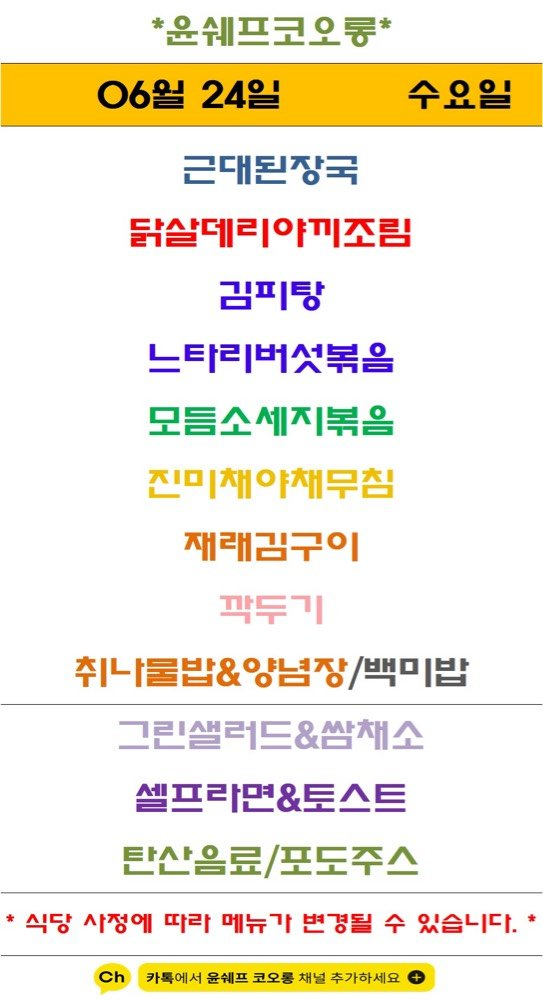
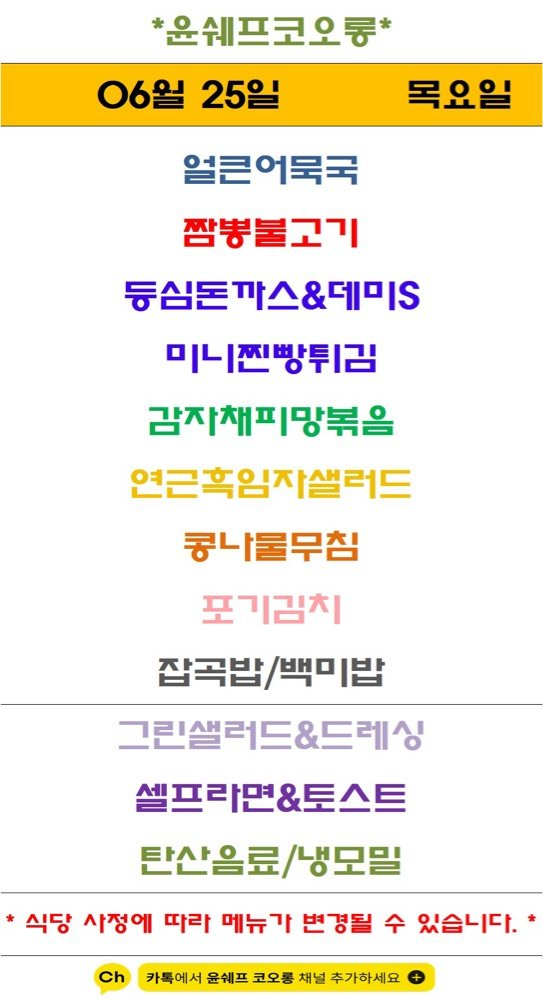
Update menu board assets

diff --git a/guro-menu/index.html b/guro-menu/index.html
@@ -32,7 +32,7 @@
   </header>
   <section class="meta">
     <div><small>기준 날짜</small><strong>2026년 6월 25일 목요일</strong></div>
-    <div><small>최종 갱신</small><strong>2026-06-25 09:13:25</strong></div>
+    <div><small>최종 갱신</small><strong>2026-06-25 09:18:11</strong></div>
     <div><small>등록 식당</small><strong>5개</strong></div>
   </section>
   <div class="notice">공개 카카오 채널의 메뉴 이미지를 자동 수집하고 OCR로 정리합니다. 텍스트에 오타가 있을 수 있으니 식단 이미지를 함께 확인해 주세요.</div>
@@ -103,8 +103,8 @@
           <a class="channel" href="https://pf.kakao.com/_Xxhxkhs" target="_blank" rel="noopener">원본 채널</a>
         </div>
         <img class="menu-image" src="./images/yoon-chef-kolon.png" alt="윤쉐프 코오롱 식단 이미지" loading="lazy">
-        <p class="message">최신 공개 식단 이미지의 텍스트입니다. 날짜는 원본 이미지를 확인해 주세요.</p>
-        <ul><li>근대된장국</li><li>닭살데리야끼조림</li><li>리피탕</li><li>느타리버섯복음</li><li>모듬소세지볶음</li><li>재래리구이</li><li>취나물밥&amp;양념장/백미밥</li><li>그린샐러드&amp;쌈채소</li><li>셀프라면&amp;토스트</li><li>탄산음료/포도주스</li></ul>
+        
+        <ul><li>열큰어묵국</li><li>등심돈까쓰&amp;데미6</li><li>람자채피망볶음</li><li>콩나물무침</li><li>잡곡밥/벽미밥</li><li>그린샐러드&amp;드레싱</li><li>셀프라면&amp;토스트</li><li>탄산음료/냉모밀</li></ul>
       </article>
   </section>
   <section class="seo" aria-label="검색 정보">한신IT타워 구내식당 자연푸드 구내식당 더이츠푸드 벽산더이룸 윤쉐프 코오롱 한신IT타워 벽산디지털밸리7차 대륭포스트타워1차 벽산디지털밸리1차 코오롱싸이언스밸리1차 서울 구로구 디지털로 272 한신IT타워 지하1층 서울 구로구 디지털로33길 50 벽산디지털밸리7차 지하1층 서울 구로구 디지털로 288 대륭포스트타워1차 지하1층 서울 구로구 디지털로27길 24 벽산디지털밸리1차 지하1층 서울 구로구 디지털로34길 43 코오롱싸이언스밸리1차 지하1층</section>

diff --git a/menu-today/index.html b/menu-today/index.html
@@ -209,7 +209,7 @@
 
     <section class="meta-bar">
       <div class="meta-card"><div class="meta-label">기준 날짜</div><div class="meta-value">2026년 6월 25일 목요일</div></div>
-      <div class="meta-card"><div class="meta-label">최종 가져온 시간</div><div class="meta-value">2026-06-25 09:13:09</div></div>
+      <div class="meta-card"><div class="meta-label">최종 가져온 시간</div><div class="meta-value">2026-06-25 09:17:58</div></div>
       <div class="meta-card"><div class="meta-label">확인 완료</div><div class="meta-value">9개 식당</div></div>
       <div class="meta-card"><div class="meta-label">준비중</div><div class="meta-value">3개 채널</div></div>
     </section>
